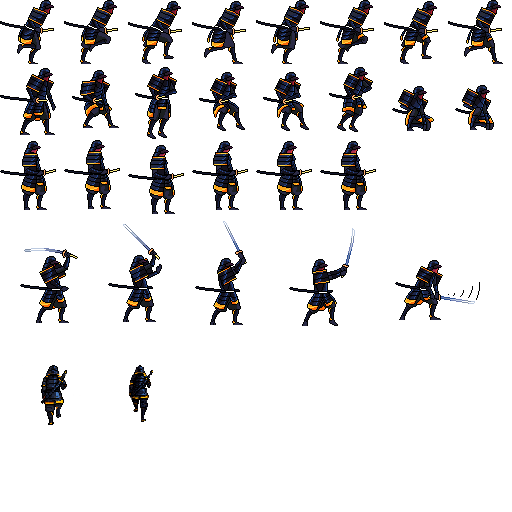
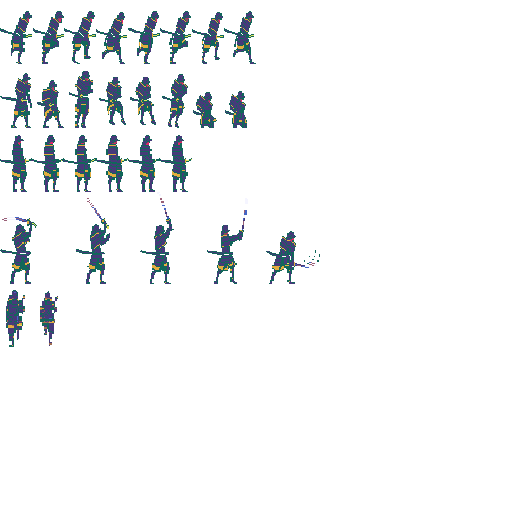
textura de samurai a 32pix, arreglos colision y escalera

diff --git a/src/Player.cpp b/src/Player.cpp
@@ -8,18 +8,23 @@
 #define JUMP_ANGLE_STEP 4
 #define JUMP_HEIGHT 96
 #define FALL_STEP 4
-#define PLAYER_FRAME_WIDTH 64
+#define PLAYER_FRAME_WIDTH 32
 #define PLAYER_FRAME_HEIGHT 64
 #define PLAYER_RUN_ANIM_FRAMES 8
-#define PLAYER_JUMP_UP_ANIM_FRAMES 2
-#define PLAYER_JUMP_FALL_ANIM_FRAMES 2
+#define PLAYER_JUMP_UP_ANIM_FRAMES 4
+#define PLAYER_JUMP_FALL_ANIM_FRAMES 4
 #define PLAYER_JUMP_FALL_START_FRAME 4
-#define PLAYER_IDLE_ANIM_FRAMES 4
-#define PLAYER_IDLE_Y_OFFSET_PIXELS 12
+#define PLAYER_IDLE_ANIM_FRAMES 6
 #define PLAYER_ATTACK_ANIM_FRAMES 5
-#define PLAYER_ATTACK_FRAME_WIDTH 96
-#define PLAYER_ATTACK_FRAME_HEIGHT 104
+#define PLAYER_ATTACK_FRAME_WIDTH 64
+#define PLAYER_ATTACK_FRAME_HEIGHT 92
 #define PLAYER_CLIMB_ANIM_FRAMES 2
+
+#define ROW_RUN_TOP_PX 0
+#define ROW_JUMP_TOP_PX 64
+#define ROW_IDLE_TOP_PX 128
+#define ROW_ATTACK_TOP_PX 192
+#define ROW_CLIMB_TOP_PX 284
 
 
 enum PlayerAnims
@@ -79,23 +84,26 @@ void Player::init(const glm::ivec2 &tileMapPos, ShaderProgram &shaderProgram)
 	for(int frame = 0; frame < PLAYER_RUN_ANIM_FRAMES; ++frame)
 	{
 		float u = frame * frameSizeInTexture.x;
-		sprite->addKeyframe(MOVE_LEFT, glm::vec2(u, 0.f));
-		sprite->addKeyframe(MOVE_RIGHT, glm::vec2(u, 0.f));
+		float v = float(ROW_RUN_TOP_PX) / float(spritesheet.height());
+		sprite->addKeyframe(MOVE_LEFT, glm::vec2(u, v));
+		sprite->addKeyframe(MOVE_RIGHT, glm::vec2(u, v));
 	}
 	for(int frame = 0; frame < PLAYER_JUMP_UP_ANIM_FRAMES; ++frame)
 	{
 		float u = frame * frameSizeInTexture.x;
-		sprite->addKeyframe(JUMP_UP, glm::vec2(u, frameSizeInTexture.y));
+		float v = float(ROW_JUMP_TOP_PX) / float(spritesheet.height());
+		sprite->addKeyframe(JUMP_UP, glm::vec2(u, v));
 	}
 	for(int frame = 0; frame < PLAYER_JUMP_FALL_ANIM_FRAMES; ++frame)
 	{
 		float u = (frame + PLAYER_JUMP_FALL_START_FRAME) * frameSizeInTexture.x;
-		sprite->addKeyframe(JUMP_FALL, glm::vec2(u, frameSizeInTexture.y));
+		float v = float(ROW_JUMP_TOP_PX) / float(spritesheet.height());
+		sprite->addKeyframe(JUMP_FALL, glm::vec2(u, v));
 	}
 	for(int frame = 0; frame < PLAYER_IDLE_ANIM_FRAMES; ++frame)
 	{
 		float u = frame * frameSizeInTexture.x;
-		float v = 2.f * frameSizeInTexture.y + float(PLAYER_IDLE_Y_OFFSET_PIXELS) / float(spritesheet.height());
+		float v = float(ROW_IDLE_TOP_PX) / float(spritesheet.height());
 		glm::vec2 idleFrame(u, v);
 		sprite->addKeyframe(STAND_LEFT, idleFrame);
 		sprite->addKeyframe(STAND_RIGHT, idleFrame);
@@ -104,10 +112,12 @@ void Player::init(const glm::ivec2 &tileMapPos, ShaderProgram &shaderProgram)
 	// Climb stairs animation (2 frames)
 	float texW = float(spritesheet.width());
 	float texH = float(spritesheet.height());
-	float halfW = float(PLAYER_FRAME_WIDTH) / 2.f;
-	float halfH = float(PLAYER_FRAME_HEIGHT) / 2.f;
-	sprite->addKeyframe(CLIMB_STAIRS, glm::vec2((37.f - halfW) / texW, (369.f - halfH) / texH));
-	sprite->addKeyframe(CLIMB_STAIRS, glm::vec2((97.f - halfW) / texW, (369.f - halfH) / texH));
+	float climbV = float(ROW_CLIMB_TOP_PX) / texH;
+	for(int frame = 0; frame < PLAYER_CLIMB_ANIM_FRAMES; ++frame)
+	{
+		float climbU = frame * frameSizeInTexture.x;
+		sprite->addKeyframe(CLIMB_STAIRS, glm::vec2(climbU, climbV));
+	}
 
 	// Attack sprite (separate, larger frame: 96x104 to fit sword + slash)
 	glm::vec2 attackFrameSize(
@@ -118,14 +128,12 @@ void Player::init(const glm::ivec2 &tileMapPos, ShaderProgram &shaderProgram)
 	attackSprite->setNumberAnimations(1);
 	attackSprite->setAnimationSpeed(0, 18);
 	attackSprite->setAnimationLoop(0, false);
-	// Align each frame by its BOTTOM edge (feet on ground) to the bottom of the 104px quad.
-	// X: body center at x=48 in the 96-wide quad (centered, so flip works symmetrically).
-	// UV top-left: x = (center_x - 48) / texW,  y = (center_y + height/2 - 104) / texH
-	attackSprite->addKeyframe(0, glm::vec2( 7.f   / texW, 219.5f / texH));  // (55-48,  286+37.5-104)
-	attackSprite->addKeyframe(0, glm::vec2(97.f   / texW, 218.f  / texH));  // (145-48, 273+49-104)
-	attackSprite->addKeyframe(0, glm::vec2(184.f  / texW, 221.f  / texH));  // (232-48, 273+52-104)
-	attackSprite->addKeyframe(0, glm::vec2(278.f  / texW, 222.f  / texH));  // (326-48, 277+49-104)
-	attackSprite->addKeyframe(0, glm::vec2(390.f  / texW, 216.5f / texH));  // (438-48, 282+38.5-104)
+	float attackV = float(ROW_ATTACK_TOP_PX) / texH;
+	for(int frame = 0; frame < PLAYER_ATTACK_ANIM_FRAMES; ++frame)
+	{
+		float attackU = frame * attackFrameSize.x;
+		attackSprite->addKeyframe(0, glm::vec2(attackU, attackV));
+	}
 	attackSprite->changeAnimation(0);
 	attackSprite->setFlipHorizontal(false);
 		
@@ -141,7 +149,11 @@ void Player::init(const glm::ivec2 &tileMapPos, ShaderProgram &shaderProgram)
 void Player::update(int deltaTime)
 {
 	sprite->update(deltaTime);
-	bool onLadder = map->isOnLadder(posPlayer, glm::ivec2(PLAYER_HITBOX_WIDTH, PLAYER_HITBOX_HEIGHT));
+	bool onLadder = map->isOnLadder(posPlayer, glm::ivec2(Player::HITBOX_WIDTH, Player::HITBOX_HEIGHT));
+	bool upPressed = Game::instance().getKey(GLFW_KEY_UP);
+	bool downPressed = Game::instance().getKey(GLFW_KEY_DOWN);
+	bool leftPressed = Game::instance().getKey(GLFW_KEY_LEFT);
+	bool rightPressed = Game::instance().getKey(GLFW_KEY_RIGHT);
 	bool skipMovement = false;
 
 	// Attack with SPACE
@@ -159,28 +171,56 @@ void Player::update(int deltaTime)
 		// Only skip horizontal movement, but keep gravity/jump physics running
 	}
 
-	// Climbing logic
-	if(!skipMovement && onLadder && (Game::instance().getKey(GLFW_KEY_UP) || Game::instance().getKey(GLFW_KEY_DOWN)))
+	// Climbing logic:
+	// - Stay attached to ladder while overlapping it
+	// - Move only with UP/DOWN
+	// - Hold position when no vertical input
+	if(!skipMovement && onLadder && !bAttacking && !bJumping)
 	{
+		bool ladderJumpLeft = upPressed && leftPressed && !rightPressed;
+		bool ladderJumpRight = upPressed && rightPressed && !leftPressed;
+		bool detachLeftOrRight = (leftPressed || rightPressed) && !upPressed;
+
+		if(ladderJumpLeft || ladderJumpRight)
+		{
+			bClimbing = false;
+			bJumping = true;
+			jumpAngle = 0;
+			startY = posPlayer.y;
+			facingLeft = ladderJumpLeft;
+			sprite->setFlipHorizontal(facingLeft);
+			sprite->changeAnimation(JUMP_UP);
+		}
+		else if(detachLeftOrRight)
+		{
+			bClimbing = false;
+		}
+		else
+		{
 		if(!bClimbing)
 		{
 			bClimbing = true;
-			bJumping = false;
 			sprite->changeAnimation(CLIMB_STAIRS);
 		}
-		if(Game::instance().getKey(GLFW_KEY_UP))
+
+		// Keep the player centered on ladder column to avoid side-wall collisions.
+		int tileSize = map->getTileSize();
+		int ladderCol = (posPlayer.x + Player::HITBOX_WIDTH / 2) / tileSize;
+		posPlayer.x = ladderCol * tileSize + (tileSize - Player::HITBOX_WIDTH) / 2;
+
+		if(upPressed)
 		{
 			posPlayer.y -= 2;
-			if(map->checkCollision(posPlayer, glm::ivec2(PLAYER_HITBOX_WIDTH, PLAYER_HITBOX_HEIGHT), CollisionDir::UP, &posPlayer.y))
-				posPlayer.y += 2;
+			map->checkCollision(posPlayer, glm::ivec2(Player::HITBOX_WIDTH, Player::HITBOX_HEIGHT), CollisionDir::UP, &posPlayer.y);
 		}
-		if(Game::instance().getKey(GLFW_KEY_DOWN))
+		else if(downPressed)
 		{
 			posPlayer.y += 2;
-			if(map->checkCollision(posPlayer, glm::ivec2(PLAYER_HITBOX_WIDTH, PLAYER_HITBOX_HEIGHT), CollisionDir::DOWN, &posPlayer.y))
-				posPlayer.y -= 2;
+			map->checkCollision(posPlayer, glm::ivec2(Player::HITBOX_WIDTH, Player::HITBOX_HEIGHT), CollisionDir::DOWN, &posPlayer.y);
 		}
+
 		skipMovement = true;
+		}
 	}
 	else if(bClimbing && !skipMovement)
 	{
@@ -191,7 +231,7 @@ void Player::update(int deltaTime)
 	// Horizontal movement (blocked during attack and climbing)
 	if(!skipMovement && !bAttacking)
 	{
-		if(Game::instance().getKey(GLFW_KEY_LEFT))
+		if(leftPressed && !rightPressed)
 		{
 			facingLeft = true;
 			sprite->setFlipHorizontal(true);
@@ -200,12 +240,11 @@ void Player::update(int deltaTime)
 			posPlayer.x -= 3;
 			if(map->checkCollision(posPlayer, glm::ivec2(Player::HITBOX_WIDTH, Player::HITBOX_HEIGHT), CollisionDir::LEFT, &posPlayer.x))
 			{
-				posPlayer.x += 3;
 				if(!bJumping)
 					sprite->changeAnimation(STAND_LEFT);
 			}
 		}
-		else if(Game::instance().getKey(GLFW_KEY_RIGHT))
+		else if(rightPressed && !leftPressed)
 		{
 			facingLeft = false;
 			sprite->setFlipHorizontal(false);
@@ -214,7 +253,6 @@ void Player::update(int deltaTime)
 			posPlayer.x += 3;
 			if(map->checkCollision(posPlayer, glm::ivec2(Player::HITBOX_WIDTH, Player::HITBOX_HEIGHT), CollisionDir::RIGHT, &posPlayer.x))
 			{
-				posPlayer.x -= 3;
 				if(!bJumping)
 					sprite->changeAnimation(STAND_RIGHT);
 			}
@@ -269,7 +307,7 @@ void Player::update(int deltaTime)
 			else
 			{
 				posPlayer.y = int(startY - JUMP_HEIGHT * sin(3.14159f * jumpAngle / 180.f));
-				if(jumpAngle < 90 && map->checkCollision(posPlayer, glm::ivec2(PLAYER_HITBOX_WIDTH, PLAYER_HITBOX_HEIGHT), CollisionDir::UP, &posPlayer.y))
+				if(jumpAngle < 90 && map->checkCollision(posPlayer, glm::ivec2(Player::HITBOX_WIDTH, Player::HITBOX_HEIGHT), CollisionDir::UP, &posPlayer.y))
 				{
 					jumpAngle = 90;
 					startY = posPlayer.y + JUMP_HEIGHT;
@@ -277,15 +315,16 @@ void Player::update(int deltaTime)
 						sprite->changeAnimation(JUMP_FALL);
 				}
 				if(jumpAngle > 90)
-					bJumping = !map->checkCollision(posPlayer, glm::ivec2(32, 32), CollisionDir::DOWN, &posPlayer.y);
+					bJumping = !map->checkCollision(posPlayer, glm::ivec2(Player::HITBOX_WIDTH, Player::HITBOX_HEIGHT), CollisionDir::DOWN, &posPlayer.y);
 			}
 		}
 		else
 		{
 			posPlayer.y += FALL_STEP;
-			if(map->checkCollision(posPlayer, glm::ivec2(32, 32), CollisionDir::DOWN, &posPlayer.y))
+			bool dropThrough = downPressed && !onLadder;
+			if(map->checkCollision(posPlayer, glm::ivec2(Player::HITBOX_WIDTH, Player::HITBOX_HEIGHT), CollisionDir::DOWN, &posPlayer.y, dropThrough))
 			{
-				if(Game::instance().getKey(GLFW_KEY_UP) && !onLadder && !bAttacking)
+				if(upPressed && !onLadder && !bAttacking)
 				{
 					bJumping = true;
 					jumpAngle = 0;
@@ -297,15 +336,15 @@ void Player::update(int deltaTime)
 		}
 	}
 
-	float renderOffsetX = 0.5f * float(PLAYER_FRAME_WIDTH - PLAYER_HITBOX_WIDTH);
-	float renderOffsetY = float(PLAYER_FRAME_HEIGHT - PLAYER_HITBOX_HEIGHT);
+	float renderOffsetX = 0.5f * float(PLAYER_FRAME_WIDTH - Player::HITBOX_WIDTH);
+	float renderOffsetY = float(PLAYER_FRAME_HEIGHT - Player::HITBOX_HEIGHT);
 	sprite->setPosition(glm::vec2(float(tileMapDispl.x + posPlayer.x) - renderOffsetX, float(tileMapDispl.y + posPlayer.y) - renderOffsetY));
 
-	// Position attack sprite: feet at quad bottom (y=104), aligned with hitbox bottom
-	// quadBottom = spritePos.y + 104 = posPlayer.y + 32  →  spritePos.y = posPlayer.y - 72
-	// Body center x at 48 in quad, hitbox center at posPlayer.x + 16  →  spritePos.x = posPlayer.x - 32
-	float atkRenderOffsetX = 32.f;
-	float atkRenderOffsetY = 72.f;
+	// Position attack sprite with feet aligned to hitbox bottom.
+	// hitbox bottom = posPlayer.y + 64, attack quad height = 92 -> sprite.y = posPlayer.y - 28
+	// attack quad width = 64, hitbox width = 32 (centered) -> sprite.x = posPlayer.x - 16
+	float atkRenderOffsetX = 16.f;
+	float atkRenderOffsetY = 28.f;
 	attackSprite->setFlipHorizontal(facingLeft);
 	attackSprite->setPosition(glm::vec2(float(tileMapDispl.x + posPlayer.x) - atkRenderOffsetX, float(tileMapDispl.y + posPlayer.y) - atkRenderOffsetY));
 }

diff --git a/src/Texture.cpp b/src/Texture.cpp
@@ -7,6 +7,9 @@ using namespace std;
 
 Texture::Texture()
 {
+	widthTex = 0;
+	heightTex = 0;
+	texId = 0;
 	wrapS = GL_REPEAT;
 	wrapT = GL_REPEAT;
 	minFilter = GL_LINEAR_MIPMAP_LINEAR;
@@ -46,7 +49,7 @@ bool Texture::loadFromFile(const string &filename, PixelFormat format)
 		break;
 	}
 	glGenerateMipmap(GL_TEXTURE_2D);
-	delete[] image;
+	SOIL_free_image_data(image);
 	
 	return true;
 }

diff --git a/src/Game.cpp b/src/Game.cpp
@@ -23,6 +23,8 @@ void Game::reloadScene()
 void Game::init()
 {
 	bPlay = true;
+	for(int i = 0; i <= GLFW_KEY_LAST; ++i)
+		keys[i] = false;
 	glClearColor(0.3f, 0.3f, 0.3f, 1.0f);
 	scene.init();
 }
